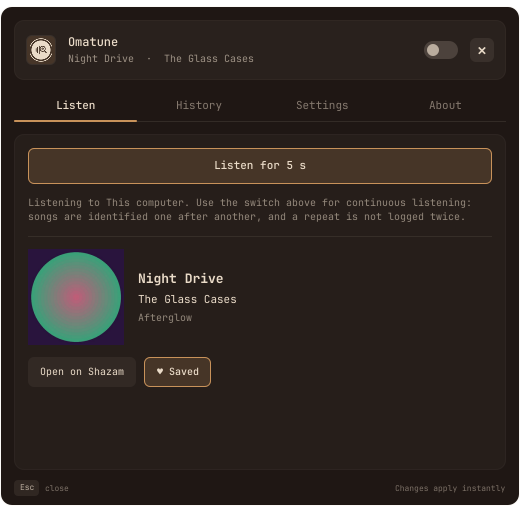
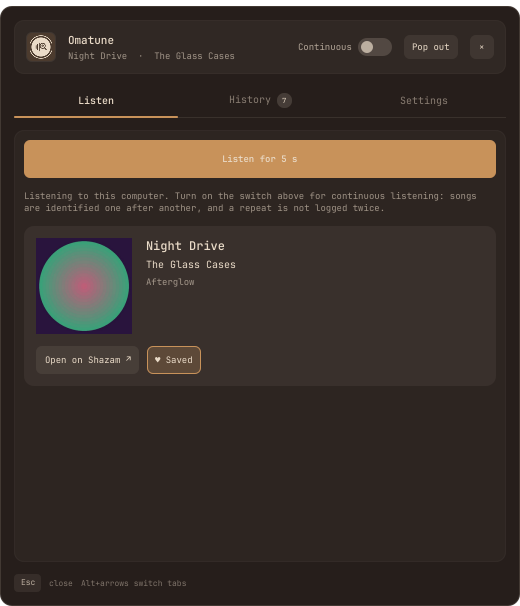
docs: screenshots, preview, README and contributing guide for the new window

diff --git a/README.md b/README.md
@@ -14,6 +14,7 @@
 Click the icon, let it listen for a few seconds, and the song appears as a notification
 with its cover, title and artist, on the bar, and in your history. It listens to what
 this computer plays or to the room, and it can keep going, one song after another.
+It opens docked to the bar, or pops out into a window of its own.
 
 ## Features
 
@@ -22,7 +23,11 @@ this computer plays or to the room, and it can keep going, one song after anothe
 - **Continuous listening**: one song after another, with no clicks, and a repeat logged only once.
 - **Notifications** with the title, the artist, the album and the cover.
 - **History and favourites**: the latest songs, and the ones you save, kept apart.
-- **Your theme**: follows your Omarchy theme live, or your own colours, or monochrome.
+- **Your theme**: follows your Omarchy theme live, takes your window border's colors, or
+  uses your own colors exactly, or none at all.
+- **Docked or popped out**: a panel on the bar, or a window you can move, resize and tile.
+- **Made to fit**: card style, spacing, roundness, text size, window size, outline,
+  tint and opacity, all in a searchable Settings tab.
 
 ### Listen
 
@@ -74,11 +79,28 @@ It needs:
 
 | Click | Opens |
 | --- | --- |
-| Left | the Listen tab |
-| Middle | the History tab |
+| Left | opens Omatune on the Listen tab, or closes it |
+| Middle | the History tab (or *Listen now*, or nothing: see **Middle click**) |
 | Right | the Settings tab |
 
-**Esc** or **×** closes the panel.
+**Esc** or **×** closes it, and **Alt+←/→** switches tabs.
+
+### Pop out and dock
+
+The header's **Pop out** turns Omatune into a real window you can move, resize and
+tile, and **Dock** puts it back on the bar. The open tab, the search and the history
+filter survive the switch. **Settings › Window › Open as** picks which one the bar
+button opens.
+
+Hyprland tiles new windows. To float and center the popped-out window, add to
+`~/.config/hypr/hyprland.lua`:
+
+```lua
+o.window({ class = "^org\\.quickshell$", title = "^Omatune$" }, { tag = "+omatune-window" })
+o.window({ tag = "omatune-window" }, { float = true })
+o.window({ tag = "omatune-window" }, { center = true })
+o.window({ tag = "omatune-window" }, { size = { 520, 600 } })
+```
 
 ### What happens when you listen
 
@@ -96,25 +118,43 @@ is saved in `~/.local/state/omarchy-omatune/settings.json`.
 
 <table>
 <tr>
-<td><img src="screenshots/settings.png" alt="Settings"></td>
+<td><img src="screenshots/settings.png" alt="Settings: Colors"></td>
+<td><img src="screenshots/settings-window.png" alt="Settings: Window"></td>
 <td><img src="screenshots/about.png" alt="About"></td>
 </tr>
 </table>
 
-| Group | Setting | Default | |
+The settings sit in tabs, with a search box above them that looks through every tab.
+Each row has a **↺** to put it back, and **Reset all** in the header puts back everything.
+
+| Tab | Setting | Default | |
 | --- | --- | --- | --- |
-| Look | Theme | Follow Omarchy | Follow Omarchy (live), Custom or Monochrome |
-| | Custom colours | | background, text and accent, a swatch or a hex code, used exactly as you pick them |
-| | Bar icon | ♪ | up to 8 characters |
-| | Show last song on the bar | on | |
+| Colors | Colors | Follow theme | Follow theme, Window borders, Custom or Monochrome |
+| | Custom colors | | background, text and accent, a swatch or a hex code, used exactly as you pick them |
+| | Text | Always readable | or Theme, or My text color |
+| Appearance | Card style | Soft | Soft, Outline or Flat |
+| | Spacing | Comfortable | Compact, Comfortable or Spacious |
+| | Roundness | 4 | 0 (square) to 20 |
+| | Text size | 1 | 0.8 to 1.5 |
+| | Show the cover | on | the last song's cover in the Listen tab |
+| Window | Window width, height | 520 × 600 | 400 to 1200, 420 to 1100 |
+| | Open as | Bar panel | or Own window |
+| | Window outline | off | the edge in your window border's colors, as a gradient or one color |
+| | Window tint | 0 | 0 to 30, the accent washed over the background |
+| | Window opacity | 97 | 50 to 100 |
 | Listening | Listen to | This computer | or Microphone |
 | | Listen length | 5 s | 4 to 20 seconds |
-| Notifications | Notify when a song is found | on | |
-| | Cover photo in notification | on | |
-| | Notification time | 8 s | 2 to 30 seconds |
-| History | Songs to keep | 20 | 5 to 100 |
+| | Notify when a song is found | on | with the cover, for 8 s (2 to 30) |
+| | Songs to keep | 20 | 5 to 100 |
+| Bar | Bar button shows | Both | Icon, Last song or Both |
+| | Bar icon | ♪ | up to 8 characters |
+| | Middle click | History | or Listen now, or Nothing |
 
-**About** has the logo, the version and a link to more plugins.
+**Window borders** and the outline read the active border from your theme's
+`hyprland.lua` (or `hyprland.conf`), and only take `#rrggbb` colors and an angle from it.
+Settings saved by Omatune 1.1 keep working.
+
+**About**, the last tab, has the logo, the version and a link to more plugins.
 
 ## Troubleshooting
 
@@ -133,7 +173,7 @@ is saved in `~/.local/state/omarchy-omatune/settings.json`.
   `~/.cache/omatune/covers` and are cleared at every start.
 - **Files.** The history is in `~/.local/state/omatune/history.json` and the favourites
   in `favourites.json` next to it. Both are checked when they are read back.
-- **Text fields.** The bar icon and hex fields never read the clipboard by themselves.
+- **Text fields.** The search, bar icon and hex fields never read the clipboard by themselves.
   **Ctrl+V** (or **Shift+Insert**) pastes once through `wl-paste`, the first line only,
   at most 1 KB.
 
@@ -148,12 +188,15 @@ What changed in each version is in the [changelog](CHANGELOG.md).
 
 ```
 qml/
-├── BarWidget.qml     the bar button, recording and identifying, notifications, history
-├── core/             SettingsStore (settings, applied at once and saved locally),
-│                     ArtCache (covers, made safe), Run (a helper with limits), Foreground
-├── panel/            Panel (Listen, History, Settings), AboutPage
-├── controls/         FieldBox (a text field with a bounded paste), FlatButton
-└── js/               Model.js (pure logic), Settings.js (every setting), Art.js (cover limits)
+├── BarWidget.qml     the bar button, recording and identifying, notifications, history,
+│                     docking and popping out, the theme's border, the capped paste
+├── core/             UiState (colors, spacing, the open tab), SettingsStore (saved
+│                     locally, applied at once), ArtCache (covers, made safe), Run
+├── panel/            Panel (docked), PopoutWindow, TuneView (the window), ListenPage,
+│                     HistoryPage, SettingsView + SettingRow + TileArt, AboutPage
+├── controls/         Btn, Chip, Sw, Txt, PasteInput (a text field with a bounded paste)
+└── js/               Schema.js (every setting), Model.js (pure logic), Theme.js
+                      (border colors), Art.js (cover limits)
 assets/               the logo, light and dark
 tools/gen-manifest.js node tools/gen-manifest.js
 tests/test_model.js   node tests/test_model.js

diff --git a/CONTRIBUTING.md b/CONTRIBUTING.md
@@ -1,37 +1,44 @@
 # Contributing
 
-Omatune is small: one file of pure logic, one list of settings, and the QML that shows
-them. Most changes touch one or two of them.
+Omatune is small: one list of settings, one file of pure logic, and the QML that shows
+them. Most changes touch one or two files.
 
 ```
-qml/BarWidget.qml        the bar button, recording and identifying, notifications, history
-qml/panel/Panel.qml      the window: Listen, History, Settings and About
-qml/js/Model.js          pure logic: reading SongRec's answer, colours, settings, history
-qml/js/Settings.js       every setting, in the order and groups the Settings tab shows
+qml/BarWidget.qml        the bar button, recording and identifying, notifications, history,
+                         docking and popping out, and what the window asks of it (`ui.service`)
+qml/core/UiState.qml     colors, spacing and the open tab, shared by both windows (`ui.*`)
+qml/panel/TuneView.qml   the window: header, tabs, Listen, History, Settings, footer
+qml/panel/SettingRow.qml one setting, drawn from its Schema.js entry
+qml/js/Schema.js         every setting, in the tabs and order the Settings tab shows
+qml/js/Model.js          pure logic: reading SongRec's answer, the history, favourites
 qml/js/Art.js, qml/core/ArtCache.qml   covers, made safe before they are shown
 ```
 
 ## A new setting
 
-1. Add it to `SCHEMA` in `qml/js/Settings.js`: a `key` that never changes once released, a
-   `group` from `GROUPS`, a `type` (`boolean`, `integer`, `enum` or `string`), a
-   `label`, a `defaultValue` and a one-sentence `description`. An `integer` takes
-   `min`, `max` and `step`; an `enum` takes `options` and `labels`.
-2. Read it as `cfg.<key>` in `qml/BarWidget.qml` or `root.cfg.<key>` in `qml/panel/Panel.qml`. The
-   value is already clamped to what the schema allows (`Model.normalizeSettings`).
+1. Add it to a group in `qml/js/Schema.js`: a `key` that never changes once released, a
+   `kind` (`bool`, `int`, `enum`, `string` or `palette`), a `label`, a `fallback` and a
+   one-sentence `hint`. An `int` takes `min`, `max` and `step`; an `enum` takes
+   `options` and `labels`, and `control: "tiles"` to draw it as tiles (add its picture
+   to `qml/panel/TileArt.qml`). `section` puts it under a heading, `when` dims it
+   unless another setting has one of the given values.
+2. Read it as `cfg.<key>` in `qml/BarWidget.qml` or `ui.cfgSafe.<key>` in the window. The
+   value is already clean (`Schema.resolve`).
 3. Write the manifest again: `node tools/gen-manifest.js`.
 
-The Settings tab builds its row from the entry by itself.
+The Settings tab builds its row, its search entry and its reset by itself.
 
 ## Rules
 
 - `qml/js/Model.js` stays pure: no Qt, so the tests run in node.
 - Anything read from a file or from SongRec is checked before it's used: songs through
   `Model.parseRecognition()` and `Model.cleanSongs()`, settings through
-  `Model.normalizeSettings()`, links through `Model.safeUrl()`.
+  `Schema.resolve()`, theme files through `Theme.parseBorder()`, links through `Model.safeUrl()`.
 - A cover is never shown from its address. `qml/core/ArtCache.qml` downloads it with limits and
   makes a small PNG of it in a limited process; show only `pathFor()`.
-- Every `Text` sets `textFormat: Text.PlainText`.
+- Text goes through `controls/Txt.qml`, which is plain text only. A text field is
+  `controls/PasteInput.qml`, never a `TextInput`, so the clipboard is only read on
+  Ctrl+V, capped.
 - Helper commands are argument arrays. A shell script only gets its values as
   arguments (`"sh", "-c", script, "sh", value...`), never pasted into the script.
 - ES6 JavaScript: `const` and `let`, and arrow functions for callbacks.
@@ -42,7 +49,7 @@ The Settings tab builds its row from the entry by itself.
 node tests/test_model.js
 ```
 
-They need nothing but node: the parsing, the history, the colours, the cover limits,
-and that `manifest.json` matches `Settings.js`.
+They need nothing but node: the parsing, the history, the settings and their old
+names, the border colors, the cover limits, and that `manifest.json` matches `Schema.js`.
 
 Everyone taking part is expected to follow the [code of conduct](CODE_OF_CONDUCT.md).
